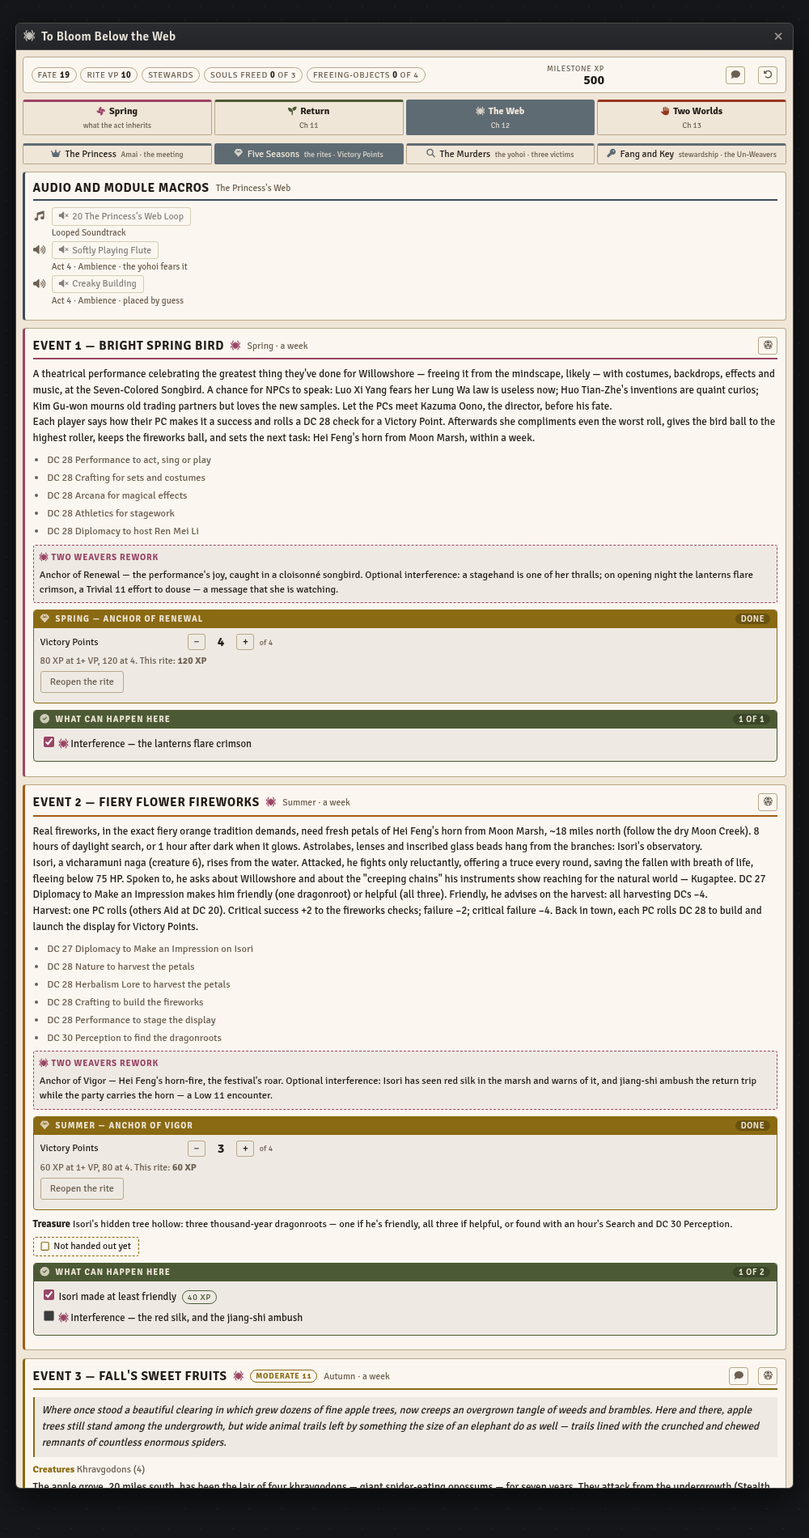
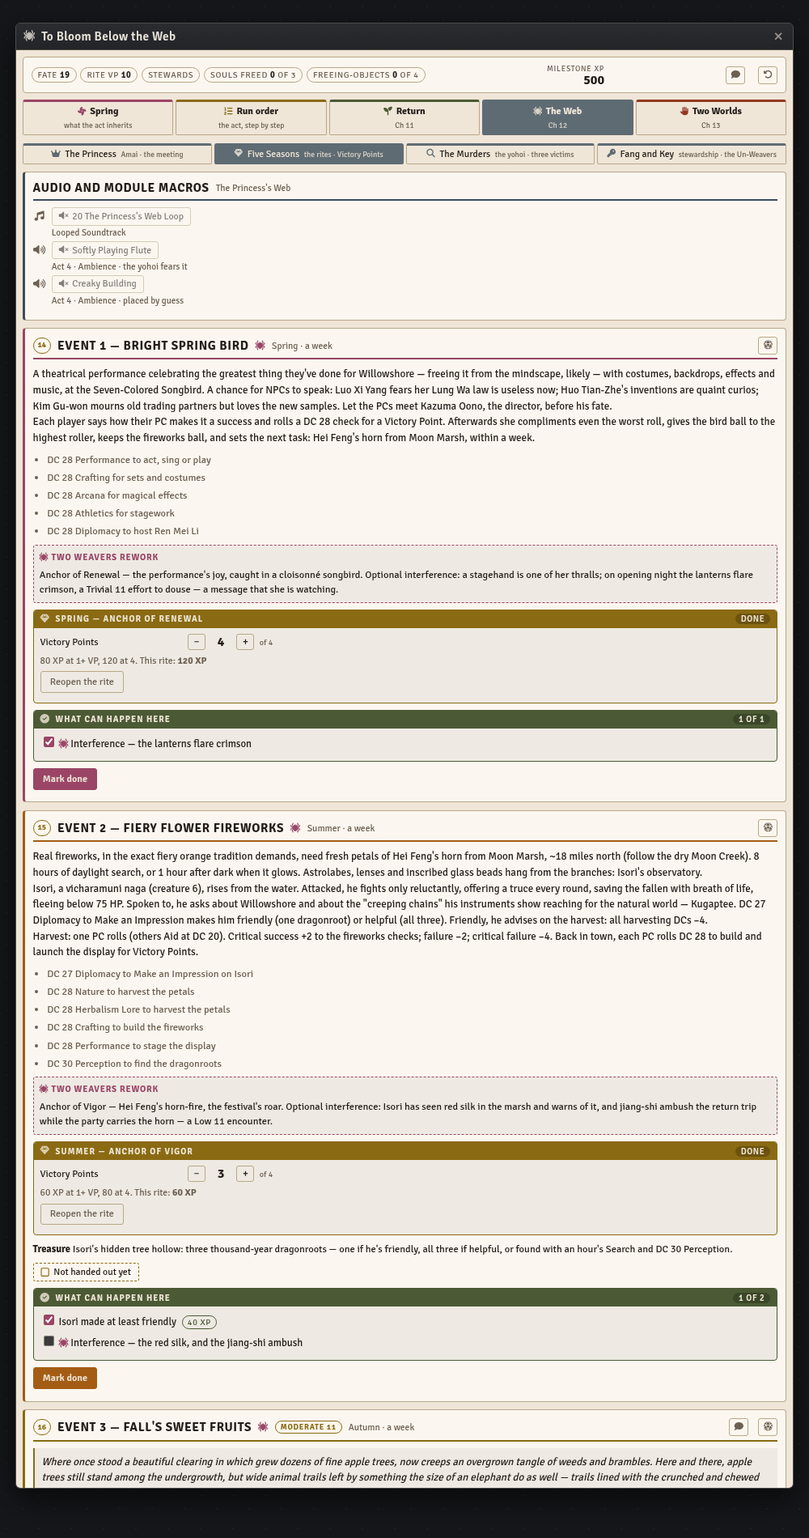
To Bloom Below the Web: a run order tab, so the act's sequence is visible
The chapter sub-tabs group cards by place and never said what to run first,
or how Chapter 12's rites and murders interleave. The new tab lists the act
as numbered steps, Chapter 12 laid out by Ren Mei Li's weekly visits, with
done states, a "now" marker, and a jump to each step's card. Cards gain their
step number and a Mark done button.

diff --git a/macros/season-of-ghosts/to-bloom-below-the-web-console.js b/macros/season-of-ghosts/to-bloom-below-the-web-console.js
@@ -104,6 +104,7 @@ const CHAPTERS = {
 
 const TABS = [
   { key: "spring", label: "Spring", sub: "what the act inherits", tone: "bloom", icon: "fa-fan" },
+  { key: "order", label: "Run order", sub: "the act, step by step", tone: "gold", icon: "fa-list-ol" },
   { key: "ch11", label: "Return", sub: "Ch 11", tone: CHAPTERS.ch11.tone, icon: CHAPTERS.ch11.icon },
   { key: "ch12", label: "The Web", sub: "Ch 12", tone: CHAPTERS.ch12.tone, icon: CHAPTERS.ch12.icon },
   { key: "ch13", label: "Two Worlds", sub: "Ch 13", tone: CHAPTERS.ch13.tone, icon: CHAPTERS.ch13.icon }
@@ -1027,6 +1028,106 @@ const SOG_CSS = (root) => `
 `;
 
 
+/* ------------------------------------------------------------- run order
+   The act in the order it's played. The chapter tabs group cards by place;
+   this is the sequence, which matters most in Chapter 12, where Ren Mei Li's
+   weekly visits pace the rites and the murders land between them.
+
+   Act 4 isn't pinned to calendar days the way winter is — the book counts in
+   "a few days later" and "a week" — so `when` is relative, and the dates slide
+   to wherever the table is. `kind` follows the campaign timeline's legend:
+   main story, decision or social, side or optional, combat, and rework.
+   A step is done when its own test says so, or when every card it names is
+   marked done; the first step not done is where the table is. Optional
+   steps and `background` ones (the bridge's months of building) never hold
+   that marker — they show as optional or running beside it instead. */
+const STEPS = [
+  { ch: "ch11", when: "Before play", kind: "main", title: "Level to 10, offer the ancestry swap, total the Fate",
+    cards: ["ch11-fate", "ch11-waking"], done: t => t.beat("ch11-fate", "ch11-fate-told") },
+  { ch: "ch11", when: "Day 1", kind: "main", title: "Waking in Willowshore — the lantern, the bell, the roads beyond",
+    cards: ["ch11-waking", "ch11-lantern", "ch11-bell", "ch11-beyond"] },
+  { ch: "ch11", when: "Day 1, before twilight", kind: "combat", title: "The ruined manor and the false governor",
+    note: "The town elder asks them to look before their first day back ends. Get the authorization pass first.",
+    cards: ["ch11-manor", "ch11-a1", "ch11-a2", "ch11-a3", "ch11-a4", "ch11-a5", "ch11-a6", "ch11-a7", "ch11-a8", "ch11-elder"],
+    done: t => t.beat("ch11-a8", "ch11-a8-false") },
+  { ch: "ch11", when: "A few days after waking", kind: "main", title: "Shinzo's farewell — the last chance to shop",
+    cards: ["ch11-farewell"], done: t => t.beat("ch11-farewell", "ch11-farewell") },
+  { ch: "ch11", when: "After the manor", kind: "main", title: "To Karahai — the bell is gifted on the first visit",
+    cards: ["ch11-karahai"] },
+  { ch: "ch11", when: "3 days of downtime", kind: "decision", title: "Rebuild Karahai Bridge — plan it and roll",
+    cards: ["ch11-rebuild"], done: t => !!t.s.bridge.degree },
+  { ch: "ch11", when: "About a week into the work", kind: "combat", rework: true, title: "Silkwasps at the Bridge — pay Lo Kuon, or fight",
+    cards: ["ch11-bridge-fight"], done: t => !!t.s.bridge.outcome },
+  { ch: "ch11", when: "Days (if they fought) or weeks (if they paid)", kind: "side", title: "Bandit trouble, and asking about the Silkwasps in Karahai",
+    cards: ["ch11-dealing"] },
+  { ch: "ch11", when: "When they find it — before Chapter 13", kind: "combat", rework: true, title: "The Silkwasp camp, Hong Meigui, and the three clues",
+    note: "Left alone, Hong Meigui storms the town at the start of Chapter 13 as an Extreme encounter.",
+    cards: ["ch11-camp", "ch11-clues"], done: t => t.beat("ch11-camp", "ch11-camp-cleared") },
+  { ch: "ch11", when: "1–3 months after the roll", kind: "main", background: true, title: "Karahai Bridge finished",
+    note: "A critical success finishes it before Chapter 12; a failure probably not before the Adventure Path ends. This runs alongside Chapter 12 — don't wait for it.",
+    cards: ["ch11-rebuild"], done: t => t.beat("ch11-rebuild", "ch11-bridge-built") },
+
+  { ch: "ch12", week: 0, when: "Week 0", kind: "decision", title: "Amai, the feline emissary — tea in seven days",
+    cards: ["ch12-amai"], done: t => t.beat("ch12-amai", "ch12-amai") },
+  { ch: "ch12", week: 0, when: "The seven days", kind: "side", title: "Preparing for her visit, and asking about her in Karahai",
+    cards: ["ch12-prep"] },
+  { ch: "ch12", week: 1, when: "Week 1 — her first visit", kind: "decision", rework: true, title: "Meeting the Princess — the stewardship offer, and who is coming",
+    cards: ["ch12-meeting", "ch12-requests"], done: t => t.beat("ch12-requests", "ch12-agreed") },
+  { ch: "ch12", week: 2, when: "Week 2 — she returns for the show", kind: "decision", rework: true, title: "Event 1 · Bright Spring Bird — the performance",
+    cards: ["ch12-r-spring"], done: t => t.s.rites.spring.done },
+  { ch: "ch12", week: 3, when: "Week 3 — she returns for the display", kind: "decision", rework: true, title: "Event 2 · Fiery Flowers — Moon Marsh, Isori, the fireworks",
+    cards: ["ch12-r-summer"], done: t => t.s.rites.summer.done },
+  { ch: "ch12", week: 3, when: "Weeks 3–4 — on the way to the grove", kind: "combat", rework: true, title: "Event 3 · Sweet Fruits — the khravgodons and the apple grove",
+    cards: ["ch12-r-autumn"], done: t => t.s.rites.autumn.done },
+  { ch: "ch12", week: 3, when: "While they're at the grove", kind: "main", rework: true, title: "Event 4 · The first murder — Kazuma Oono",
+    note: "Found as they return. Restoring the grove and investigating run side by side.",
+    cards: ["ch12-m1", "ch12-yohoi", "ch12-trouble"], done: t => t.beat("ch12-m1", "ch12-m1-lead") || t.prevented("m1") },
+  { ch: "ch12", week: 4, when: "Week 4 — she returns", kind: "combat", rework: true, title: "Event 5 · Spiced Tea — Whisperweb Shrine and the algrievers",
+    cards: ["ch12-r-winter"], done: t => t.s.rites.winter.done },
+  { ch: "ch12", week: 4, when: "Found on the return from Whisperweb", kind: "main", rework: true, title: "Event 6 · The second murder — Elizeth Candora",
+    note: "The curfew starts: –1 to Earn Income and Gather Information in town.",
+    cards: ["ch12-m2"], done: t => t.beat("ch12-m2", "ch12-m2-flute") || t.prevented("m2") },
+  { ch: "ch12", week: 5, when: "Week 5 — she returns for tea", kind: "decision", rework: true, title: "Event 7 · The Final Season — the oath, and the Gossamer Path",
+    cards: ["ch12-r-beyond"], done: t => t.s.rites.beyond.done },
+  { ch: "ch12", week: 5, when: "After the Path, before her last visit", kind: "main", title: "Event 8 · The third murder — You So-Jin",
+    cards: ["ch12-m3"], done: t => t.beat("ch12-m3", "ch12-m3-bombs") || t.prevented("m3") },
+  { ch: "ch12", week: 6, when: "Week 6 — her last visit", kind: "main", rework: true, title: "The Fang and Key — the party become stewards",
+    cards: ["ch12-fang"], done: t => t.beat("ch12-fang", "ch12-fang") },
+  { ch: "ch12", when: "Any time — optional", kind: "side", title: "The Un-Weavers",
+    cards: ["ch12-unweavers"] },
+
+  { ch: "ch13", when: "Once they're stewards", kind: "main", title: "The restored manor — the four freeing-objects, and Ithiniak at the door",
+    note: "No hard timer from here, but if they dawdle Heh kills again. A month is plenty.",
+    cards: ["ch13-restored", "ch13-c1", "ch13-c2", "ch13-c3", "ch13-c4", "ch13-c5", "ch13-c6", "ch13-c7", "ch13-c8"] },
+  { ch: "ch13", when: "Through the door", kind: "main", rework: true, title: "Kugaptee's Grasp — free the three chained souls, in any order",
+    cards: ["ch13-grasp", "ch13-curios", "ch13-chained", "ch13-oono", "ch13-elizeth", "ch13-sojin"], done: t => t.soulsFreed >= 3 },
+  { ch: "ch13", when: "Toward the claw — in order", kind: "combat", title: "Kugaptee's Grave — D1 summer, D2 fall, D3 winter, D4 spring",
+    cards: ["ch13-grave", "ch13-d1", "ch13-d2", "ch13-d3", "ch13-d4"] },
+  { ch: "ch13", when: "Through D4's door", kind: "combat", title: "The Governor's Den — the shisagishin, then Heh Shan-Bao: redeem or fight",
+    cards: ["ch13-den", "ch13-claw", "ch13-heh"] },
+  { ch: "ch13", when: "The instant his fate resolves", kind: "combat", rework: true, title: "The Breach — the Crimson Weaver, then the marrow wears her",
+    note: "Do not run the book's Kugaptee's Final Death.",
+    cards: ["ch13-breach", "ch13-phase1", "ch13-phase2"], done: t => t.beat("ch13-phase2", "ch13-phase2") },
+  { ch: "ch13", when: "When the vessel falls", kind: "main", rework: true, title: "The Sealing of Five Seasons — five rounds, five anchors",
+    cards: ["ch13-sealing"], done: t => t.beat("ch13-sealing", "ch13-sealing") },
+  { ch: "ch13", when: "The end", kind: "main", title: "A Heroine Passes Her Burden, and the aftermath",
+    cards: ["ch13-heroine", "ch13-aftermath"], done: t => t.beat("ch13-heroine", "ch13-ending") }
+];
+const KINDS = {
+  main: { label: "Story", tone: "moss" }, decision: { label: "Decision", tone: "ember" },
+  side: { label: "Optional", tone: "muted" }, combat: { label: "Combat", tone: "rust" }
+};
+/* The step a card belongs to, for the chip on its header — its first step. */
+const stepOfCard = (key) => { const i = STEPS.findIndex(x => x.cards.includes(key)); return i < 0 ? null : i + 1; };
+const subOfCard = (key) => {
+  const M = { ch11: { return: CH11_RETURN, manor: CH11_MANOR, bandits: CH11_BANDITS },
+    ch12: { princess: CH12_PRINCESS, rites: CH12_RITES, murders: CH12_MURDERS, fang: CH12_FANG },
+    ch13: { manor: CH13_MANOR, grasp: CH13_GRASP, grave: CH13_GRAVE, den: CH13_DEN, finale: CH13_FINALE } };
+  for (const [ch, subs] of Object.entries(M)) for (const [sub, arr] of Object.entries(subs))
+    if (arr.some(c => c.key === key)) return { ch, sub };
+  return null;
+};
+
 /* ------------------------------------------------------------------ state */
 function blankState(pcs) {
   return {
@@ -1282,6 +1383,15 @@ class Spring {
     this.touch();
   }
 
+  stepDone(st) {
+    if (st.done?.(this)) return true;
+    return st.cards.every(k => this.s.cleared[k]);
+  }
+  get currentStep() {
+    const i = STEPS.findIndex(x => !x.background && x.kind !== "side" && !this.stepDone(x));
+    return i < 0 ? STEPS.length : i;
+  }
+
   get totalXp() {
     return this.s.xp + Object.keys(RITES).reduce((n, k) => n + this.riteXp(k), 0) + this.soulXp();
   }
@@ -1358,7 +1468,15 @@ class TBWApp extends BaseApp {
   async _renderInner() {
     const $el = $(`<div class="tbw-root">${this.markup()}</div>`);
     this.wire($el[0]);
+    setTimeout(() => this.scrollToCard(document.getElementById("tbw-console") ?? $el[0]), 30);
     return $el;
+  }
+  /* After a Go from the run order, bring that card into view. */
+  scrollToCard(root) {
+    const k = this.scrollTo;
+    if (!k || !root) return;
+    this.scrollTo = null;
+    setTimeout(() => root.querySelector?.(`[data-card="${k}"]`)?.scrollIntoView?.({ block: "start", behavior: "smooth" }), 30);
   }
   activateListeners(html) {
     super.activateListeners?.(html);
@@ -1385,6 +1503,7 @@ class TBWApp extends BaseApp {
         </nav>
         ${chapter ? this.subtabs(chapter) : ""}
         ${s.tab === "spring" ? this.springTab(ro) : ""}
+        ${s.tab === "order" ? this.orderTab(ro) : ""}
         ${chapter ? this.chapterTab(chapter, ro) : ""}
       </div>`;
   }
@@ -1458,6 +1577,49 @@ class TBWApp extends BaseApp {
       </section>`;
   }
 
+  /* ------------------------------------------------------------ run order */
+  orderTab(ro) {
+    const t = this.t, now = t.currentStep;
+    const doneCount = STEPS.filter(x => t.stepDone(x)).length;
+    let html = `
+      <section class="panel" style="--tone:var(--gold)">
+        <h3>Run order <small>${doneCount} of ${STEPS.length} steps done</small></h3>
+        <p class="text">The chapter tabs group the cards by place. This is the order to play them in. Chapter 11 runs mostly top to bottom; Chapter 12 is paced by Ren Mei Li's weekly visits, with each murder landing between two rites; Chapter 13 has no timer. Act 4 isn't pinned to calendar days — the book counts in "a few days" and "a week" — so the timings are relative and slide to wherever your table is.</p>
+        <p class="hint">A step is done when its key result is recorded, or when every card in it is marked done. The highlighted step is the next one to run; optional steps and the bridge's months of building sit beside it rather than blocking it. <b>Go</b> opens the step's first card, and the gold number on every card says which step it belongs to.</p>
+      </section>`;
+    for (const ch of ["ch11", "ch12", "ch13"]) {
+      const c = CHAPTERS[ch];
+      html += `<section class="panel order" style="--tone:var(--${c.tone})">
+        <h3>${c.act} — ${c.title} <small>level ${c.level}${ch === "ch12" ? " · Ren Mei Li's weekly visits set the pace" : ch === "ch13" ? " · no timer; a month is plenty" : ""}</small></h3>
+        <ol class="steps">`;
+      let lastWeek = null;
+      STEPS.forEach((st, i) => {
+        if (st.ch !== ch) return;
+        if (st.week != null && st.week !== lastWeek) {
+          lastWeek = st.week;
+          html += `<li class="weekrow"><span>Week ${st.week}</span>${st.week === 0 ? "Amai arrives" : st.week === 1 ? "first visit" : "Ren Mei Li returns"}</li>`;
+        }
+        const done = t.stepDone(st), here = i === now, K = KINDS[st.kind];
+        html += `<li class="step ${done ? "done" : ""} ${here ? "here" : ""}" style="--k:var(--${K.tone})">
+          <span class="snum">${i + 1}</span>
+          <span class="sbody">
+            <span class="swhen">${st.when}</span>
+            <b>${st.title}</b>
+            ${st.note ? `<em>${st.note}</em>` : ""}
+          </span>
+          <span class="stags">
+            <span class="kind">${K.label}</span>
+            ${st.rework ? `<i class="fa-solid fa-spider web-ic" title="Two Weavers rework"></i>` : ""}
+            ${done ? `<span class="kind ok">done</span>` : here ? `<span class="kind now">now</span>` : st.background && i < now ? `<span class="kind run">running</span>` : ""}
+            <button type="button" class="ghost go" data-act="goto" data-k="${st.cards[0]}">Go</button>
+          </span>
+        </li>`;
+      });
+      html += `</ol></section>`;
+    }
+    return html;
+  }
+
   /* ------------------------------------------------------------- chapters */
   chapterTab(chapter, ro) {
     const sub = this.t.s.ctab[chapter];
@@ -1476,8 +1638,8 @@ class TBWApp extends BaseApp {
     const beats = card.beats ?? [];
     const jref = card.id ?? card.page;
     return `
-      <section class="panel area ${done ? "done" : ""} ${card.rework && !card.boxed && !card.text ? "web" : ""}" style="--tone:var(--${tone(card.tone)})">
-        <h3>${card.id ? `<span class="eid">${card.id}</span>` : ""}${card.name}
+      <section class="panel area ${done ? "done" : ""} ${card.rework && !card.boxed && !card.text ? "web" : ""}" data-card="${card.key}" style="--tone:var(--${tone(card.tone)})">
+        <h3>${stepOfCard(card.key) ? `<button type="button" class="stepchip" data-act="tab" data-k="order" title="Step ${stepOfCard(card.key)} of the run order">${stepOfCard(card.key)}</button>` : ""}${card.id ? `<span class="eid">${card.id}</span>` : ""}${card.name}
           ${card.rework ? `<i class="fa-solid fa-spider web-ic" title="Two Weavers rework"></i>` : ""}
           ${card.level ? `<span class="lvl">${card.level}</span>` : ""}
           ${card.when ? `<small>${card.when}</small>` : ""}
@@ -1507,6 +1669,7 @@ class TBWApp extends BaseApp {
               ${b.rework ? `<i class="fa-solid fa-spider web-ic" title="Two Weavers rework"></i> ` : ""}${b.label}${b.xp ? ` <span class="tag">${b.xp} XP</span>` : ""}</label>
             ${b.note ? `<p class="beatnote">${b.note}</p>` : ""}`).join("")}
         </div>` : ""}
+        <div class="btnrow"><button type="button" class="${done ? "ghost" : "primary"}" data-act="cleared" data-k="${card.key}" ${ro ? "disabled" : ""}>${done ? "Reopen" : "Mark done"}</button></div>
       </section>`;
   }
 
@@ -1695,11 +1858,19 @@ class TBWApp extends BaseApp {
       ev.preventDefault();
       const a = btn.dataset.act, k = btn.dataset.k, d = btn.dataset.d;
       if (sogClick(a, btn)) return;
-      if (!t.editable && !["tab", "sub", "journal", "postarea", "postchecks"].includes(a)) return;
+      if (!t.editable && !["tab", "sub", "journal", "postarea", "postchecks", "goto"].includes(a)) return;
       if (a === "tab") { t.s.tab = k; t.touch(); }
       else if (a === "sub") { t.s.ctab[btn.dataset.ch] = k; t.touch(); }
       else if (a === "journal") openJournal(btn.dataset.ch, btn.dataset.r || null);
       else if (a === "postarea") t.postArea(cardByKey(k));
+      else if (a === "goto") {
+        const where = subOfCard(k);
+        if (!where) return;
+        t.s.tab = where.ch; t.s.ctab[where.ch] = where.sub;
+        this.scrollTo = k;
+        t.touch();
+      }
+      else if (a === "cleared") t.toggleCleared(k);
       else if (a === "postchecks") t.postChecks(cardByKey(k));
       else if (a === "poststatus") t.postStatus();
       else if (a === "reset") Dialog.confirm({ title: "Reset spring?", content: "<p>Clear every Act 4 tick, tally and roll? The other acts' macros aren't touched.</p>" })
@@ -1864,6 +2035,30 @@ class TBWApp extends BaseApp {
       .tbw .inh .itone { --it:var(--muted); color:var(--it); font-size:.9rem; }
       .tbw .inh em { font-size:.72rem; color:var(--muted); }
       .tbw .area.done h3 .eid { opacity:.6; }
+      .tbw .area.done { opacity:.85; }
+      .tbw .stepchip { font-size:.62rem; font-weight:700; min-width:1.4rem; height:1.25rem; padding:0 .3rem; border-radius:10px;
+                      border-color:var(--gold); color:var(--gold); flex:none; }
+      .tbw .steps { list-style:none; margin:0; padding:0; display:flex; flex-direction:column; gap:3px; }
+      .tbw .step { display:grid; grid-template-columns:1.8rem 1fr auto; gap:.5rem; align-items:start; padding:.35rem .45rem;
+                  border:1px solid var(--line); border-left:4px solid var(--k, var(--line)); border-radius:3px; background:var(--card); }
+      .tbw .step.done { opacity:.55; }
+      .tbw .step.here { box-shadow:0 0 0 2px var(--gold); background:var(--stripe); opacity:1; }
+      .tbw .snum { font-weight:700; font-size:.85rem; color:var(--muted); text-align:right; padding-top:.1rem; }
+      .tbw .step.here .snum { color:var(--gold); }
+      .tbw .sbody { display:flex; flex-direction:column; gap:.1rem; font-size:.8rem; line-height:1.35; }
+      .tbw .swhen { font-size:.62rem; text-transform:uppercase; letter-spacing:.08em; color:var(--muted); }
+      .tbw .sbody em { font-size:.74rem; color:var(--muted); }
+      .tbw .step.done b { text-decoration:line-through; }
+      .tbw .stags { display:flex; align-items:center; gap:.3rem; }
+      .tbw .kind { font-size:.6rem; text-transform:uppercase; letter-spacing:.07em; padding:1px 6px; border-radius:10px;
+                  border:1px solid var(--k, var(--line)); color:var(--k, var(--muted)); }
+      .tbw .kind.ok { border-color:var(--moss); color:var(--moss); }
+      .tbw .kind.now { border-color:var(--gold); background:var(--gold); color:var(--paper); }
+      .tbw .kind.run { border-color:var(--slate); color:var(--slate); border-style:dashed; }
+      .tbw .go { font-size:.68rem; padding:.15rem .5rem; }
+      .tbw .weekrow { display:flex; gap:.5rem; align-items:baseline; font-size:.72rem; color:var(--muted); margin:.45rem 0 .1rem;
+                     padding-left:.3rem; border-bottom:1px dashed var(--line); }
+      .tbw .weekrow span { font-weight:700; text-transform:uppercase; letter-spacing:.08em; color:var(--silver); }
       @media (max-width:800px) {
         .tbw .inhgrid { grid-template-columns:1fr; }
         .tbw .tabs, .tbw .subtabs { flex-wrap:wrap; }
@@ -1883,6 +2078,7 @@ if (AppV2) {
   TBWApp.prototype._replaceHTML = function (result, content) {
     content.innerHTML = result;
     this.wire(content);
+    this.scrollToCard(content);
     return content;
   };
 }

diff --git a/tools/preview/fixtures.js b/tools/preview/fixtures.js
@@ -917,6 +917,25 @@ globalThis.FIXTURES = {
     }
   },
 
+  /* The run order mid-Chapter 12: Chapter 11 behind them, three rites done,
+     the first murder found — the table is at Whisperweb. */
+  "spring-order": {
+    "world.sogFallDowntime": { week: 12, pools: { hope: 6, food: 4, security: 5, restoration: 5 } },
+    "world.sogWinter": { population: 198 },
+    "world.sogSpring": {
+      tab: "order",
+      bridge: { degree: "s", hits: 0, outcome: "fought" },
+      rites: { spring: { vp: 4, done: true }, summer: { vp: 3, done: true }, autumn: { vp: 2, done: true },
+               winter: { vp: 0, done: false }, beyond: { vp: 0, done: false } },
+      cleared: { "ch11-waking": true, "ch11-lantern": true, "ch11-bell": true, "ch11-beyond": true,
+                 "ch11-karahai": true, "ch11-dealing": true, "ch12-prep": true },
+      beats: { "ch11-fate": { "ch11-fate-told": 1 }, "ch11-a8": { "ch11-a8-false": 1 },
+               "ch11-farewell": { "ch11-farewell": 1 }, "ch11-camp": { "ch11-camp-cleared": 1 },
+               "ch12-amai": { "ch12-amai": 1 }, "ch12-requests": { "ch12-agreed": 1 },
+               "ch12-m1": { "ch12-m1-lead": 1 } }
+    }
+  },
+
   /* Chapter 12 part way: three rites done, Victory Points tallied. */
   "spring-rites": {
     "world.sogFallDowntime": { week: 12, pools: { hope: 6, food: 4, security: 5, restoration: 5 } },

diff --git a/tools/preview/relay-test/test-sog-shared-values.js b/tools/preview/relay-test/test-sog-shared-values.js
@@ -197,7 +197,7 @@ const REWORK_R10 = () => ({ key: "r10", bridge: "13.redeem" });
 
   /* Every tab and sub-tab renders. */
   let threw = null;
-  for (const tab of ["spring", "ch11", "ch12", "ch13"]) {
+  for (const tab of ["spring", "order", "ch11", "ch12", "ch13"]) {
     spring.s.tab = tab;
     const subs = springX.CHAPTERS[tab]?.subs ?? [{ key: null }];
     for (const sub of subs) {
@@ -207,6 +207,10 @@ const REWORK_R10 = () => ({ key: "r10", bridge: "13.redeem" });
     }
   }
   check("every Act 4 tab renders", !threw, threw ?? "");
+  check("the run order starts at step 1 with nothing recorded", spring.currentStep === 0);
+  spring.toggleBeat("ch11-fate", "ch11-fate-told");
+  check("recording the Fate moves the table to step 2", spring.currentStep === 1);
+  spring.toggleBeat("ch11-fate", "ch11-fate-told");
 
   const pools = get("sogFallDowntime").pools;
   check("the Fate reads the downtime pools", spring.fate.base === pools.hope + pools.food + pools.security, `${spring.fate.base}`);

diff --git a/tools/preview/capture.py b/tools/preview/capture.py
@@ -62,6 +62,9 @@ SHOTS = {
     "spring": (
         "season-of-ghosts/to-bloom-below-the-web-console.js", "spring",
         "season-of-ghosts/to-bloom-below-the-web-console.png"),
+    "spring-order": (
+        "season-of-ghosts/to-bloom-below-the-web-console.js", "spring-order",
+        "season-of-ghosts/to-bloom-below-the-web-order.png"),
     "spring-rites": (
         "season-of-ghosts/to-bloom-below-the-web-console.js", "spring-rites",
         "season-of-ghosts/to-bloom-below-the-web-rites.png"),

diff --git a/macros/season-of-ghosts/README.md b/macros/season-of-ghosts/README.md
@@ -218,6 +218,19 @@ distinguishable from the homebrew.
   the transmigrate was cast and the warding bell spared, the silver collars, Heh Shan-Bao's
   choice in the dream, both rework seeds, Yami, Rin, and Great Willow. Nothing here writes
   another act's state.
+- **Run order** — the act as a numbered sequence of 30 steps, because the chapter tabs group
+  cards by place and don't say what comes first. Chapter 11 runs mostly top to bottom;
+  Chapter 12 is laid out by Ren Mei Li's weekly visits (week 0, Amai, to week 6, the Fang and
+  Key), with each murder placed between the rites it falls between; Chapter 13 has no timer. Act 4
+  isn't pinned to calendar days the way winter is, so the timings are the book's relative ones
+  ("a few days after waking", "while they're at the grove"). Each step shows whether it's done —
+  from its key result, or every card in it marked done — and the first open step is highlighted
+  as *now*; optional steps and the bridge's months of building don't hold that marker. **Go**
+  jumps to the step's first card, and every card carries its step number and a **Mark done**
+  button.
+
+![The run order mid-Chapter 12, with the table at Whisperweb](../../screenshots/season-of-ghosts/to-bloom-below-the-web-order.png)
+
 - **Chapter 11 — Willowshore's Return**: Willowshore's Fate worked out live (the pools, +12 for a
   critical casting, +4 at 100+ people, an adjustment if the pools moved since) with the tier's
   XP granted and taken back exactly; the Eternal Lantern and the warding bell; the ruined manor

diff --git a/CHANGELOG.md b/CHANGELOG.md
@@ -1,5 +1,21 @@
 # Changelog
 
+## 2026-11-24 22:40
+
+### Added
+- **To Bloom Below the Web — a Run order tab.** The chapter sub-tabs group cards by place, so
+  nothing said whether to run them left to right or how Chapter 12's rites and murders interleave.
+  The new tab lists the act as 30 numbered steps, taken from the book and the campaign's Two
+  Weavers timeline: Chapter 11 in sequence, Chapter 12 under Ren Mei Li's weekly visits (week 0
+  to week 6) with each murder between the rites it falls between, and Chapter 13's run through
+  the Grasp, the Grave, the Den and the finale. Timings are relative, as the book gives them —
+  Act 4 isn't pinned to calendar days. A step is done when its key result is recorded (the Fate,
+  a rite, a murder's first lead, the souls freed…) or every card in it is marked done; the first
+  open step is highlighted, skipping optional steps and the bridge's background months. **Go**
+  opens the step's card.
+- **Every Act 4 card carries its step number and a Mark done button.** Cards had no done state
+  of their own before, so reference cards could never count as run.
+
 ## 2026-11-24 21:30
 
 ### Added
